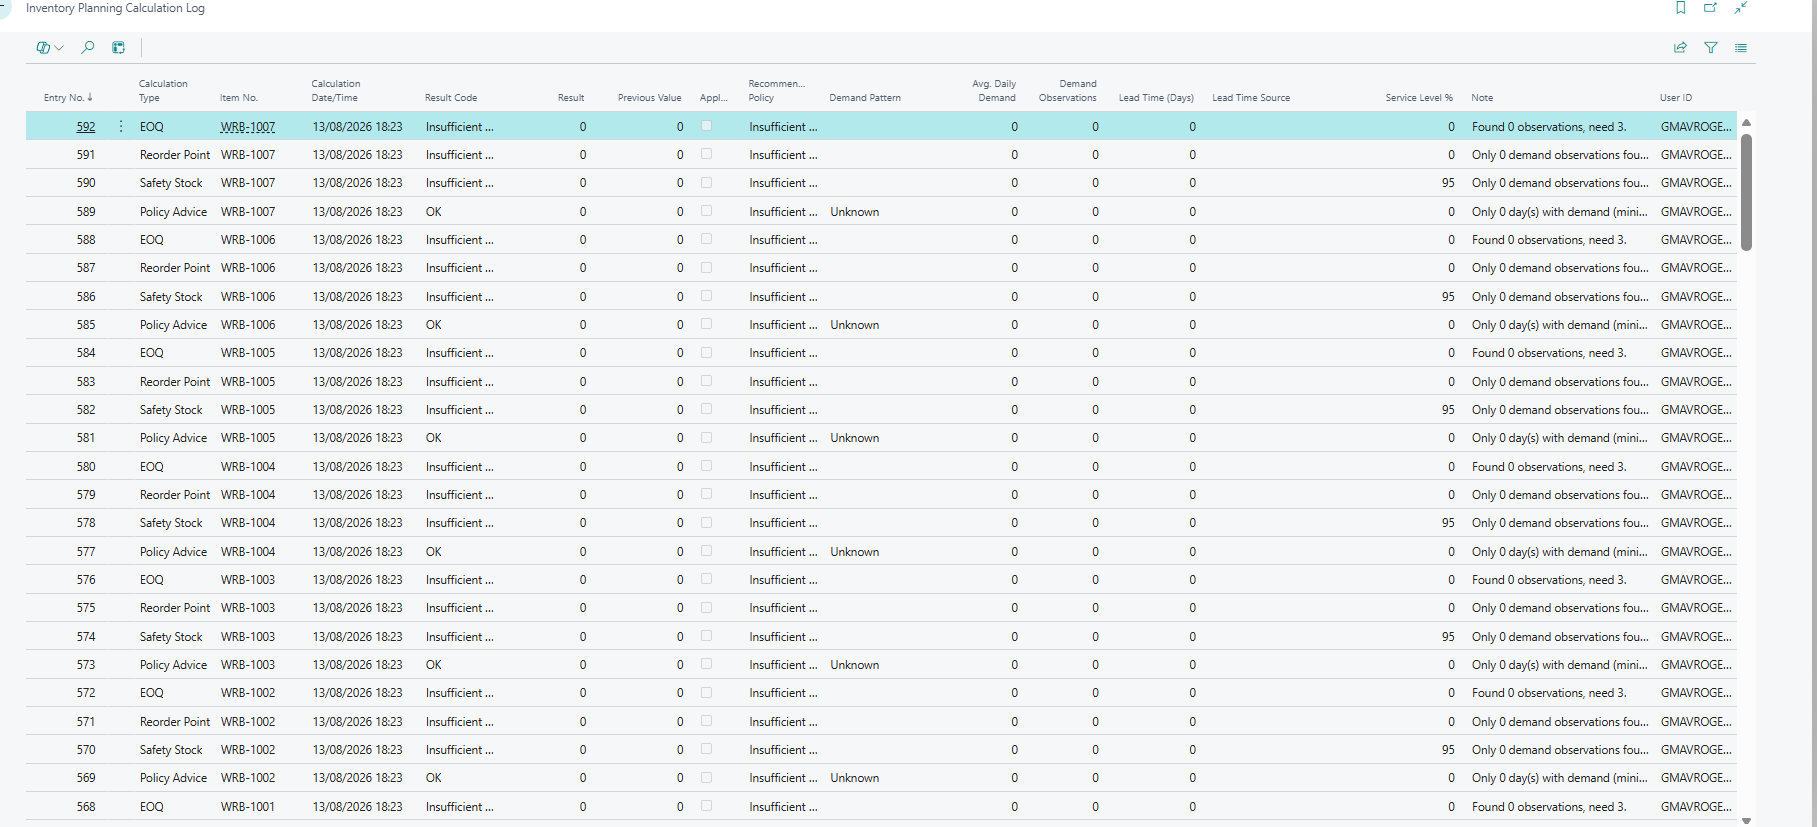
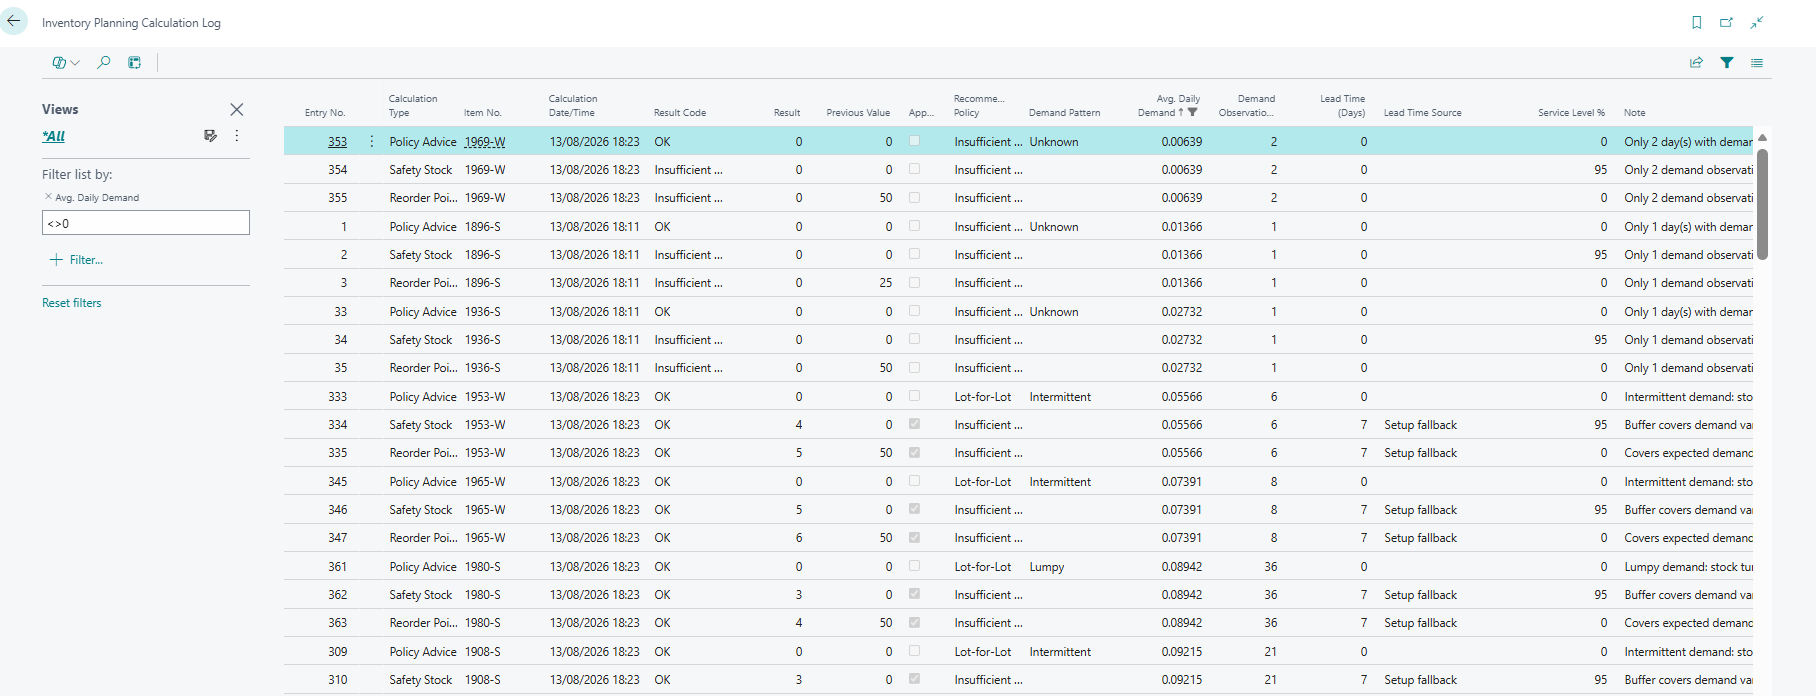
Replace the calculation log screenshot with populated entries
Filtered to items with demand, so the statistics columns carry real values -
avg daily demand, observation counts, lead time and its source, service level
and the previous value - instead of a page of zeros. Four of five are now ready
to upload.

Changed region(s): [[0.0, 0.0, 1.0, 1.0]]

diff --git a/docs/screenshots/README.md b/docs/screenshots/README.md
@@ -21,7 +21,7 @@ most visitors never scroll past it.
 |---|---|---|---|
 | 01 | `01-planning-worksheet.png` | **ready** | Review current versus proposed values for a filtered set of items, then apply only the lines you select. |
 | 02 | `02-setup.png` | **re-shoot** — General group scrolled off the top | One setup page for all four calculators — service level, costs, thresholds and write targets. |
-| 03 | `03-calculation-log.png` | **re-shoot** — every row reads Insufficient with zero statistics | Every calculation records the statistics, lead time, costs and previous value behind it. |
+| 03 | `03-calculation-log.png` | **ready** | Every calculation records the statistics, lead time and previous value behind it. |
 | 04 | `04-item-card.png` | **ready** | Every calculator, per item, from the Item Card. |
 | 05 | `05-result-message.png` | **ready** | The app flags when a result deserves review — here, demand too intermittent for the method to be reliable. |
 
@@ -32,12 +32,12 @@ Ctrl+- until all six group headers fit, and scroll to the very top. General is
 the group that matters most to an evaluator and it is currently above the fold.
 The crop already removes the Role Center bleed and the Windows taskbar.
 
-### 03 — what to change
+### 03 — optional tidy
 
-Filter the log to `Result Code = OK`, or to a single item that produced values
-such as 1896-S. The current capture shows WRB-1001…1007, which have no demand at
-all, so every statistic column is zero and the notes read "Found 0 observations".
-The caption promises the opposite of what the image shows.
+Re-captured with a `Avg. Daily Demand <> 0` filter so the statistics columns are
+populated. The Views pane is still open on the left, showing that filter. It is
+honest and costs about 200px of frame; closing it before a re-shoot would be
+slightly cleaner but is not worth another pass on its own.
 
 Captions are also in [`../appsource-listing.md`](../appsource-listing.md). Keep
 the two in step.
